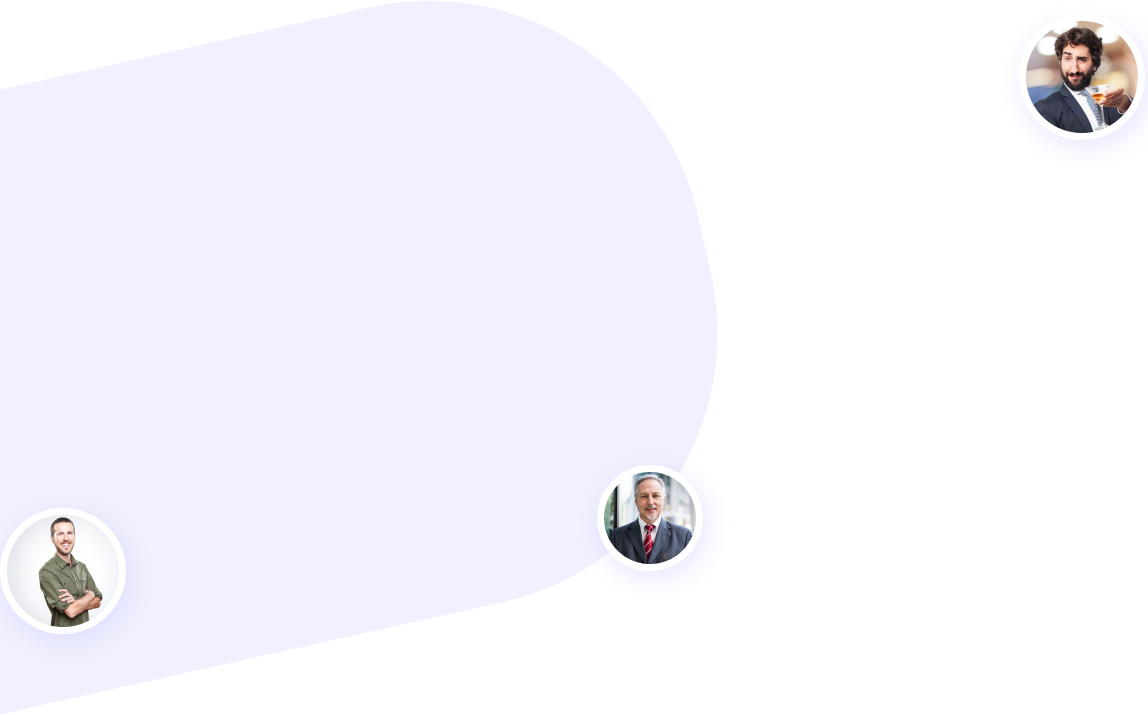
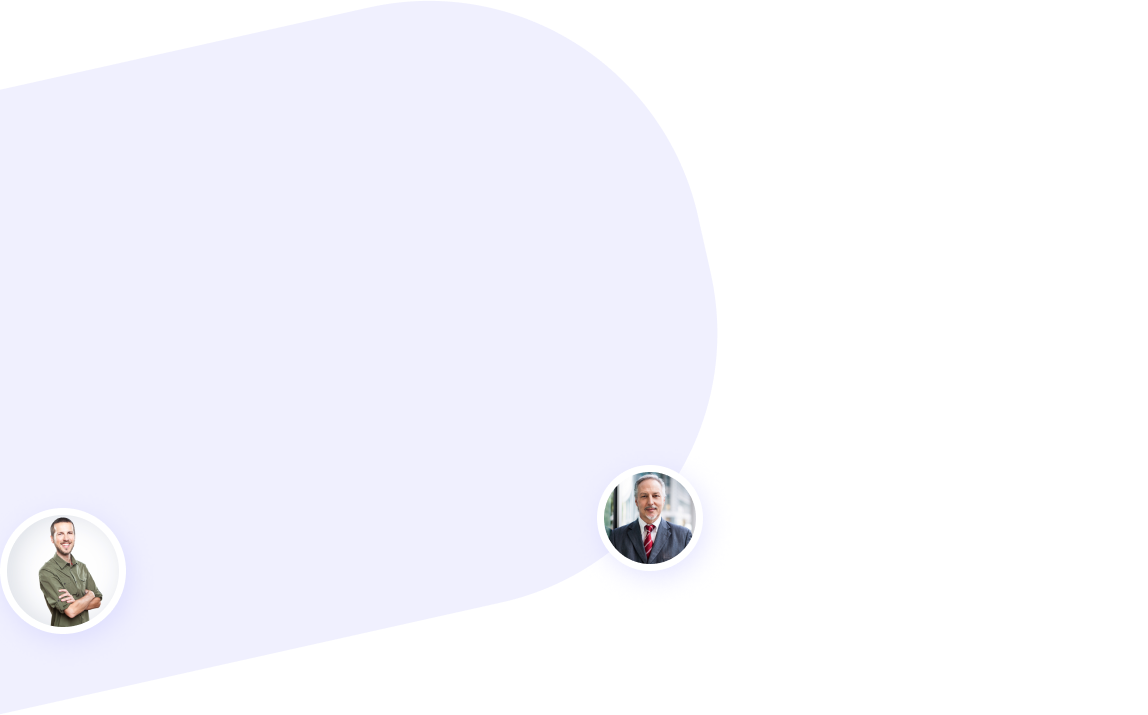
4 jan

Changed region(s): [[0.8841, 0.0308, 1.0, 0.1846]]

diff --git a/src/css/style.min.css b/src/css/style.min.css
@@ -1,1 +1,1 @@
-.header{min-height:671px;background:url(../../img/header.png) center no-repeat}.header nav{display:flex;justify-content:space-between}.header nav .logo{margin-top:33px;font-size:32px;line-height:37px;color:#fff;font-weight:700;text-transform:capitalize;letter-spacing:.05em}.header nav .logo a{text-decoration:none;color:#fff;font-size:32px;line-height:37px;color:#fff;font-weight:700;text-transform:capitalize;letter-spacing:.05em}.header nav .log__button{width:103px;height:34px;border-radius:50px;margin-top:41px;color:#3953fa;background-color:#fff;border:none;box-shadow:0 7px 14px rgba(0,0,0,.2);font-size:18px;line-height:21px;text-align:center;letter-spacing:.05em;text-transform:capitalize;font-weight:500;outline:0}.header .menu{display:flex}.header .menu__list{display:flex}.header .menu__item{font-size:18px;line-height:21px;letter-spacing:.05em;text-transform:capitalize;margin-right:30px;margin-top:47px}.header .menu a{color:#fff}.header .legend__wrapper{width:339px;margin-top:159px}.header .legend__wrapper h1{font-size:42px;line-height:49px;letter-spacing:.05em;text-transform:capitalize;color:#fff;font-weight:500}.header .legend__wrapper .legend__text{margin-top:31px;font-size:18px;line-height:21px;letter-spacing:.05em;text-transform:capitalize;color:#fff;letter-spacing:.05em;font-weight:400}.methods{min-height:776px;background-image:url(../../img/methodsbg.png);background-repeat:no-repeat;background-size:auto;background-position:top 70px left}.methods__wrapper{display:flex;justify-content:space-between}.methods .choose{position:relative;width:410px;height:480px;margin-top:167px;margin-left:55px;background:#fff;box-shadow:5px 5px 30px rgba(98,165,244,.23);border-radius:15px}.methods .choose__method{font-size:23px;line-height:27px;letter-spacing:.05em;text-transform:capitalize;color:#1d1d1d;font-weight:bolder;margin-top:45px;margin-left:45px}.methods .choose__carousel{margin-top:25px;display:block;width:460px;height:160px}.methods .choose__carousel img{border-radius:10px;border:4px solid #fff;box-shadow:0 4px 12px rgba(98,165,244,.26)}.methods .choose__input{margin-top:13px;margin-left:44px;border:1px solid #b7b7b7;border-radius:8px;width:318px;height:44px;outline:0}.methods .choose__branch{margin-left:46px;font-size:16px;line-height:19px;font-weight:500;letter-spacing:.05em;color:#1d1d1d}.methods .choose input::-webkit-calendar-picker-indicator{-webkit-appearance:none;opacity:1;color:rgba(0,0,0,0);background:url(../../icons/arrow.svg) no-repeat;height:6px;width:20px;top:0;z-index:0;position:absolute;right:1px;top:20px}.methods .choose input::-webkit-input-placeholder{font-size:14px;line-height:16px;letter-spacing:.05em;color:#cdcdcd;margin-left:12px}.methods .choose__geo{margin-top:13px;margin-left:44px;font-size:12px;line-height:14px;letter-spacing:.05em;color:#3953fa}.methods .choose__loading{font-size:16px;line-height:19px;letter-spacing:.05em;color:#1d1d1d;font-weight:500;margin-top:26px;margin-left:44px}.methods .choose .loading{display:flex;align-self:center;font-size:12px;line-height:14px;letter-spacing:.05em;color:#3953fa;margin-left:44px;margin-top:18px}.methods .choose .loading input[type=radio]{margin-right:10px}.methods .choose .loading label{margin-right:20px}.methods .choose .order{display:flex;justify-content:space-between;align-items:center;position:absolute;padding:0;width:230px;height:60px;background:#fff;box-shadow:10px 14px 46px rgba(98,165,244,.23);border-radius:10px;border-color:rgba(0,0,0,0);top:375px;left:300px;font-size:16px;line-height:19px;font-weight:700;letter-spacing:.05em;text-transform:capitalize;color:#45de2d}.methods .choose .order span{display:block;margin-top:0;margin-left:16px}.methods .choose .order img{display:block;width:40px;height:40px;margin-right:15px;margin-top:8px}.methods .find{width:410px}.methods .find__divider{margin-top:202px;width:80px;height:0;border-bottom:3px solid #3953fa}.methods .find__lets{margin-top:50px;font-size:32px;line-height:37px;font-weight:500;letter-spacing:.05em;color:#1d1d1d}.methods .find__text{margin-top:30px;font-size:16px;line-height:25px;letter-spacing:.05em;color:#7c7c7c}.methods .find button{width:200px;height:62px;background:#eaf0fe;border-radius:60px;border:none;font-size:18px;line-height:30px;text-align:center;font-weight:500;color:#3953fa;outline:0;margin-top:58px}.methods .slick-prev{position:absolute;top:115px;left:278px;border:none;background:rgba(0,0,0,0);outline:0}.methods .slick-prev img{box-shadow:none}.methods .slick-next{position:absolute;top:115px;left:341px;border:none;background:rgba(0,0,0,0);outline:0;box-shadow:none}.methods .slick-next img{box-shadow:none;transform:rotateY(180deg)}.methods .slick-slide{margin:10px 20px}.methods .slick-list{margin:-10px -20px}.section-3{min-height:794px;background-image:url(../../img/block3bg.png);background-repeat:no-repeat;background-size:auto;background-position:right bottom}.section-3__wrapper{display:flex;justify-content:space-between}.section-3__left{width:410px;margin-left:30px}.section-3 .divider{margin-top:80px;width:80px;height:0;border-bottom:3px solid #3953fa}.section-3 .bedding{margin-top:50px;font-size:32px;line-height:37px;font-weight:500;letter-spacing:.05em;color:#1d1d1d}.section-3 .bedding__text{margin-top:50px;font-size:16px;line-height:25px;letter-spacing:.05em;color:#7c7c7c}.section-3 button{width:200px;height:62px;background:#eaf0fe;border-radius:60px;border:none;font-size:18px;line-height:30px;text-align:center;font-weight:500;color:#3953fa;outline:0;margin-top:58px}.section-3__right{position:relative;width:410px;margin-top:10px}.section-3__right .chooses{margin-top:14px;margin-left:20px;width:322px;font-size:16px;line-height:26px;letter-spacing:.05em;color:#7c7c7c}.section-3__right .chooses:nth-child(2){text-align:right;position:absolute;right:140px;top:186px}.section-3__right .chooses:nth-child(3){margin-top:300px}.section-3__right .chooses span{margin-top:120px;display:block;font-size:18px;line-height:21px;letter-spacing:.05em;color:#1d1d1d;font-weight:500}.video{background:url(../../img/block4bg.png) top left no-repeat;min-height:683px}.video__wrapper{position:relative;display:flex;justify-content:space-between}.video .video__button{margin-top:484px;margin-left:461px;width:90px;height:90px;background:0 0}.video .video__button img{display:block}.video__right{margin-top:100px;width:389px}.video__divider{margin-top:100px;width:80px;height:0;border-bottom:3px solid #3953fa}.video__title{margin-top:50px;font-size:32px;line-height:37px;font-weight:500;letter-spacing:.05em;color:#1d1d1d}.video__text{margin-top:50px;font-size:16px;line-height:25px;letter-spacing:.05em;color:#7c7c7c}.video button{width:200px;height:62px;background:#eaf0fe;border-radius:60px;border:none;font-size:18px;line-height:30px;text-align:center;font-weight:500;color:#3953fa;outline:0;margin-top:58px}.section-5{min-height:794px;background-image:url(../../img/Group_9.png);background-repeat:no-repeat;background-size:auto;background-position:bottom right}.section-5__wrapper{display:flex;justify-content:space-between}.section-5__left{width:410px;margin-left:30px}.section-5 .divider{margin-top:300px;width:80px;height:0;border-bottom:3px solid #3953fa}.section-5 .bedding{margin-top:50px;font-size:32px;line-height:37px;font-weight:500;letter-spacing:.05em;color:#1d1d1d}.section-5 .bedding__text{margin-top:50px;font-size:16px;line-height:25px;letter-spacing:.05em;color:#7c7c7c}.section-5 button{width:200px;height:62px;background:#eaf0fe;border-radius:60px;border:none;font-size:18px;line-height:30px;text-align:center;font-weight:500;color:#3953fa;outline:0;margin-top:58px}.section-5__right .awsome__mail{margin-top:438px;margin-right:290px;font-size:16px;line-height:25px;letter-spacing:.05em;color:#7c7c7c}.section-5__right .statisics{display:flex;justify-content:space-between;align-items:center;width:260px;margin-top:20px}.section-5__right .statisics__label{margin-top:17px;font-size:14px;line-height:22px;letter-spacing:.05em;color:#fff;text-align:center}.section-5__right .statisics__value{font-size:14px;line-height:22px;letter-spacing:.05em;color:#fff;font-weight:700;text-align:center}.section-6{min-height:861px;background-image:url(../../img/Group10.png);background-repeat:no-repeat;background-size:auto;background-position:left bottom}.section-6__wrapper{display:flex;justify-content:space-between}.section-6__carousel{display:block;width:455px;height:455px}.section-6__carousel .block{margin-top:250px;width:452px;height:335px;background:#fff;border-radius:10px}.section-6__carousel .block__avatar{position:relative}.section-6__carousel .block__avatar img{position:absolute;top:-56px;left:170px;display:block;width:126px;height:126px;border:7px solid #fff;border-radius:100%;filter:drop-shadow(4px 7px 29px rgba(198, 198, 255, .43))}.section-6__carousel .block__name{padding-top:76px;font-family:Damion,cursive;font-size:26px;line-height:48px;text-align:center;letter-spacing:.05em;color:#7c7c7c}.section-6__carousel .block__city{font-size:14px;line-height:22px;text-align:center;letter-spacing:.05em;color:#7c7c7c;margin-bottom:13px}.section-6__carousel .block__text{margin:0 auto;width:356px;font-size:16px;line-height:25px;text-align:center;letter-spacing:.05em;color:#7c7c7c}.section-6__right .bedding{margin-left:180px;margin-top:347px;width:280px;font-size:32px;line-height:37px;font-weight:500;letter-spacing:.05em;color:#1d1d1d}.section-6__right .bedding__text{margin-top:30px;margin-left:180px;width:370px;font-size:16px;line-height:25px;letter-spacing:.05em;color:#7c7c7c}.section-6 .slick-dots{display:flex;justify-content:center;align-items:center;list-style-type:none}.section-6 .slick-dots li button{font-size:0;line-height:0;display:block;width:12px;margin:31px 8px;height:12px;cursor:pointer;color:transparent;border:0;outline:0;background:url(../../icons/Ellipse.png) no-repeat 0 0/cover}.section-6 .slick-dots li.slick-active button{font-size:0;line-height:0;display:block;width:16px;margin:29px 8px;height:16px;cursor:pointer;color:transparent;border:0;outline:0;background:url(../../icons/Ellipse_active.png) no-repeat 0 0/cover}.footer{min-height:645px;background-image:url(../../img/footer__bg.png);background-repeat:no-repeat;background-size:auto}.footer__wrapper{display:flex}.footer .connect{width:100%;display:flex;justify-content:space-between;margin-top:175px}.footer .connect .social{display:flex;justify-content:space-between}.footer .connect .social__item{display:flex;justify-content:center;align-items:center;width:35px;height:35px;background-color:#fff;border-radius:100%;margin-bottom:5px}.footer .connect .social__item img{display:block;margin-bottom:3px}.footer .connect .social{width:147px}.footer .connect .mail{margin-left:98px}.footer .connect .mail a{font-size:16px;line-height:25px;letter-spacing:.05em;color:rgba(255,255,255,.75)}.footer .connect .mail img{margin-right:17px}.footer .connect .phone a{font-size:16px;line-height:25px;letter-spacing:.05em;color:rgba(255,255,255,.75)}.footer .connect .phone img{margin-right:22px}.footer .divider{margin-top:43px;display:block;width:1032px;height:0;border-bottom:1px solid rgba(255,255,255,.21)}.footer__bottom{display:flex}.footer .subheader{margin-top:70px;font-size:20px;line-height:31px;letter-spacing:.05em;color:#fff;font-weight:500}.footer .text{font-size:14px;line-height:22px;letter-spacing:.05em;color:#fff}.footer input[type=text]{margin-top:14px;width:300px;height:50px;background:#fff;box-shadow:0 11px 22px #0057be;border-radius:65px;outline:0;border:none}.footer input::-moz-placeholder{color:#e1e1e1;font-weight:500}.footer input:-ms-input-placeholder{color:#e1e1e1;font-weight:500}.footer input::placeholder{color:#e1e1e1;font-weight:500}.footer__bottom__item{position:relative}.footer__bottom__item__divider{width:100px;height:0;border-bottom:2px solid #fff}.footer__bottom__item ul{margin-top:21px;list-style-type:none;padding-left:0}.footer__bottom__item li{margin-top:5px}.footer__bottom__item a{text-decoration:none;font-size:14px;line-height:17px;font-weight:medium;letter-spacing:.05em;color:rgba(255,255,255,.6)}.footer__bottom__item:first-child{width:360px;margin-left:80px}.footer__bottom__item .text{margin-top:31px}.footer__bottom__item:nth-child(2){margin-left:95px}.footer__bottom__item:nth-child(3){margin-left:91px}.footer__bottom__item:nth-child(4){margin-left:91px}.footer__bottom__item button{position:absolute;top:213px;left:245px;width:50px;height:50px;background-color:rgba(0,0,0,0);border-radius:100%;border:none;outline:0}.footer .footer__bottom__divider{margin-top:13px;height:0;border-bottom:2px solid #fff;width:58px}.footer .footer__bottom__divider__services{margin-top:13px;height:0;border-bottom:2px solid #fff;width:86px}.footer .footer__bottom__divider__faq{margin-top:13px;height:0;border-bottom:2px solid #fff;width:46px}*{font-family:"Avenir Next Cyr",sans-serif}body{background-color:#c9c5c5}.page__wrapper{background-color:#fff;max-width:1240px;margin:0 auto}.container{max-width:1030px;margin:0 auto}
+.header{min-height:671px;background:url(../../img/header.png) center no-repeat}.header nav{display:flex;justify-content:space-between}.header nav .logo{margin-top:33px;font-size:32px;line-height:37px;color:#fff;font-weight:700;text-transform:capitalize;letter-spacing:.05em}.header nav .logo a{text-decoration:none;color:#fff;font-size:32px;line-height:37px;color:#fff;font-weight:700;text-transform:capitalize;letter-spacing:.05em}.header nav .log__button{width:103px;height:34px;border-radius:50px;margin-top:41px;color:#3953fa;background-color:#fff;border:none;box-shadow:0 7px 14px rgba(0,0,0,.2);font-size:18px;line-height:21px;text-align:center;letter-spacing:.05em;text-transform:capitalize;font-weight:500;outline:0}.header .menu{display:flex}.header .menu__list{display:flex}.header .menu__item{font-size:18px;line-height:21px;letter-spacing:.05em;text-transform:capitalize;margin-right:30px;margin-top:47px}.header .menu a{color:#fff}.header .legend__wrapper{width:339px;margin-top:159px}.header .legend__wrapper h1{font-size:42px;line-height:49px;letter-spacing:.05em;text-transform:capitalize;color:#fff;font-weight:500}.header .legend__wrapper .legend__text{margin-top:31px;font-size:18px;line-height:21px;letter-spacing:.05em;text-transform:capitalize;color:#fff;letter-spacing:.05em;font-weight:400}.methods{min-height:776px;background-image:url(../../img/methodsbg.png);background-repeat:no-repeat;background-size:auto;background-position:top 70px left}.methods__wrapper{display:flex;justify-content:space-between}.methods .choose{position:relative;width:410px;height:480px;margin-top:167px;margin-left:55px;background:#fff;box-shadow:5px 5px 30px rgba(98,165,244,.23);border-radius:15px}.methods .choose__method{font-size:23px;line-height:27px;letter-spacing:.05em;text-transform:capitalize;color:#1d1d1d;font-weight:bolder;margin-top:45px;margin-left:45px}.methods .choose__carousel{margin-top:25px;display:block;width:460px;height:160px}.methods .choose__carousel img{border-radius:10px;border:4px solid #fff;box-shadow:0 4px 12px rgba(98,165,244,.26)}.methods .choose__input{margin-top:13px;margin-left:44px;border:1px solid #b7b7b7;border-radius:8px;width:318px;height:44px;outline:0}.methods .choose__branch{margin-left:46px;font-size:16px;line-height:19px;font-weight:500;letter-spacing:.05em;color:#1d1d1d}.methods .choose input::-webkit-calendar-picker-indicator{-webkit-appearance:none;opacity:1;color:rgba(0,0,0,0);background:url(../../icons/arrow.svg) no-repeat;height:6px;width:20px;top:0;z-index:0;position:absolute;right:1px;top:20px}.methods .choose input::-webkit-input-placeholder{font-size:14px;line-height:16px;letter-spacing:.05em;color:#cdcdcd;margin-left:12px}.methods .choose__geo{margin-top:13px;margin-left:44px;font-size:12px;line-height:14px;letter-spacing:.05em;color:#3953fa}.methods .choose__loading{font-size:16px;line-height:19px;letter-spacing:.05em;color:#1d1d1d;font-weight:500;margin-top:26px;margin-left:44px}.methods .choose .loading{display:flex;align-self:center;font-size:12px;line-height:14px;letter-spacing:.05em;color:#3953fa;margin-left:44px;margin-top:18px}.methods .choose .loading input[type=radio]{margin-right:10px}.methods .choose .loading label{margin-right:20px}.methods .choose .order{display:flex;justify-content:space-between;align-items:center;position:absolute;padding:0;width:230px;height:60px;background:#fff;box-shadow:10px 14px 46px rgba(98,165,244,.23);border-radius:10px;border-color:rgba(0,0,0,0);top:375px;left:300px;font-size:16px;line-height:19px;font-weight:700;letter-spacing:.05em;text-transform:capitalize;color:#45de2d}.methods .choose .order span{display:block;margin-top:0;margin-left:16px}.methods .choose .order img{display:block;width:40px;height:40px;margin-right:15px;margin-top:8px}.methods .find{width:410px}.methods .find__divider{margin-top:202px;width:80px;height:0;border-bottom:3px solid #3953fa}.methods .find__lets{margin-top:50px;font-size:32px;line-height:37px;font-weight:500;letter-spacing:.05em;color:#1d1d1d}.methods .find__text{margin-top:30px;font-size:16px;line-height:25px;letter-spacing:.05em;color:#7c7c7c}.methods .find button{width:200px;height:62px;background:#eaf0fe;border-radius:60px;border:none;font-size:18px;line-height:30px;text-align:center;font-weight:500;color:#3953fa;outline:0;margin-top:58px}.methods .slick-prev{position:absolute;top:115px;left:278px;border:none;background:rgba(0,0,0,0);outline:0}.methods .slick-prev img{box-shadow:none}.methods .slick-next{position:absolute;top:115px;left:341px;border:none;background:rgba(0,0,0,0);outline:0;box-shadow:none}.methods .slick-next img{box-shadow:none;transform:rotateY(180deg)}.methods .slick-slide{margin:10px 20px}.methods .slick-list{margin:-10px -20px}.section-3{min-height:794px;background-image:url(../../img/block3bg.png);background-repeat:no-repeat;background-size:auto;background-position:right bottom}.section-3__wrapper{display:flex;justify-content:space-between}.section-3__left{width:410px;margin-left:30px}.section-3 .divider{margin-top:80px;width:80px;height:0;border-bottom:3px solid #3953fa}.section-3 .bedding{margin-top:50px;font-size:32px;line-height:37px;font-weight:500;letter-spacing:.05em;color:#1d1d1d}.section-3 .bedding__text{margin-top:50px;font-size:16px;line-height:25px;letter-spacing:.05em;color:#7c7c7c}.section-3 button{width:200px;height:62px;background:#eaf0fe;border-radius:60px;border:none;font-size:18px;line-height:30px;text-align:center;font-weight:500;color:#3953fa;outline:0;margin-top:58px}.section-3__right{position:relative;width:410px;margin-top:10px}.section-3__right .chooses{margin-top:14px;margin-left:20px;width:322px;font-size:16px;line-height:26px;letter-spacing:.05em;color:#7c7c7c}.section-3__right .chooses:nth-child(2){text-align:right;position:absolute;right:140px;top:186px}.section-3__right .chooses:nth-child(3){margin-top:300px}.section-3__right .chooses span{margin-top:120px;display:block;font-size:18px;line-height:21px;letter-spacing:.05em;color:#1d1d1d;font-weight:500}.video{background:url(../../img/block4bg.png) top left no-repeat;min-height:683px}.video__wrapper{position:relative;display:flex;justify-content:space-between}.video .video__button{margin-top:484px;margin-left:461px;width:90px;height:90px;background:0 0}.video .video__button img{display:block}.video__right{margin-top:100px;width:389px}.video__divider{margin-top:100px;width:80px;height:0;border-bottom:3px solid #3953fa}.video__title{margin-top:50px;font-size:32px;line-height:37px;font-weight:500;letter-spacing:.05em;color:#1d1d1d}.video__text{margin-top:50px;font-size:16px;line-height:25px;letter-spacing:.05em;color:#7c7c7c}.video button{width:200px;height:62px;background:#eaf0fe;border-radius:60px;border:none;font-size:18px;line-height:30px;text-align:center;font-weight:500;color:#3953fa;outline:0;margin-top:58px}.section-5{min-height:794px;background-image:url(../../img/Group_9.png);background-repeat:no-repeat;background-size:auto;background-position:bottom right}.section-5__wrapper{display:flex;justify-content:space-between}.section-5__left{width:410px;margin-left:30px}.section-5 .divider{margin-top:300px;width:80px;height:0;border-bottom:3px solid #3953fa}.section-5 .bedding{margin-top:50px;font-size:32px;line-height:37px;font-weight:500;letter-spacing:.05em;color:#1d1d1d}.section-5 .bedding__text{margin-top:50px;font-size:16px;line-height:25px;letter-spacing:.05em;color:#7c7c7c}.section-5 button{width:200px;height:62px;background:#eaf0fe;border-radius:60px;border:none;font-size:18px;line-height:30px;text-align:center;font-weight:500;color:#3953fa;outline:0;margin-top:58px}.section-5__right .awsome__mail{margin-top:438px;margin-right:290px;font-size:16px;line-height:25px;letter-spacing:.05em;color:#7c7c7c}.section-5__right .statisics{display:flex;justify-content:space-between;align-items:center;width:260px;margin-top:20px}.section-5__right .statisics__label{margin-top:17px;font-size:14px;line-height:22px;letter-spacing:.05em;color:#fff;text-align:center}.section-5__right .statisics__value{font-size:14px;line-height:22px;letter-spacing:.05em;color:#fff;font-weight:700;text-align:center}.section-6{min-height:861px;background-image:url(../../img/Group10.png);background-repeat:no-repeat;background-size:auto;background-position:left bottom}.section-6__wrapper{display:flex;justify-content:space-between}.section-6__carousel{display:block;width:455px;height:455px}.section-6__carousel .block{margin-top:250px;width:452px;height:335px;background:#fff;border-radius:10px}.section-6__carousel .block__avatar{position:relative}.section-6__carousel .block__avatar img{position:absolute;top:-56px;left:170px;display:block;width:126px;height:126px;border:7px solid #fff;border-radius:100%;filter:drop-shadow(4px 7px 29px rgba(198, 198, 255, .43))}.section-6__carousel .block__name{padding-top:76px;font-family:Damion,cursive;font-size:26px;line-height:48px;text-align:center;letter-spacing:.05em;color:#7c7c7c}.section-6__carousel .block__city{font-size:14px;line-height:22px;text-align:center;letter-spacing:.05em;color:#7c7c7c;margin-bottom:13px}.section-6__carousel .block__text{margin:0 auto;width:356px;font-size:16px;line-height:25px;text-align:center;letter-spacing:.05em;color:#7c7c7c}.section-6__right{position:relative}.section-6__right .manimg{position:absolute;top:167px;right:-9px;display:block;width:126px;height:126px;border:7px solid #fff;border-radius:100%;filter:drop-shadow(4px 7px 29px rgba(198, 198, 255, .43))}.section-6__right .bedding{margin-left:180px;margin-top:347px;width:280px;font-size:32px;line-height:37px;font-weight:500;letter-spacing:.05em;color:#1d1d1d}.section-6__right .bedding__text{margin-top:30px;margin-left:180px;width:370px;font-size:16px;line-height:25px;letter-spacing:.05em;color:#7c7c7c}.section-6 .slick-dots{display:flex;justify-content:center;align-items:center;list-style-type:none}.section-6 .slick-dots li button{font-size:0;line-height:0;display:block;width:12px;margin:31px 8px;height:12px;cursor:pointer;color:transparent;border:0;outline:0;background:url(../../icons/Ellipse.png) no-repeat 0 0/cover}.section-6 .slick-dots li.slick-active button{font-size:0;line-height:0;display:block;width:16px;margin:29px 8px;height:16px;cursor:pointer;color:transparent;border:0;outline:0;background:url(../../icons/Ellipse_active.png) no-repeat 0 0/cover}.footer{min-height:645px;background-image:url(../../img/footer__bg.png);background-repeat:no-repeat;background-size:auto}.footer__wrapper{display:flex}.footer .connect{width:100%;display:flex;justify-content:space-between;margin-top:175px}.footer .connect .social{display:flex;justify-content:space-between}.footer .connect .social__item{display:flex;justify-content:center;align-items:center;width:35px;height:35px;background-color:#fff;border-radius:100%;margin-bottom:5px}.footer .connect .social__item img{display:block;margin-bottom:3px}.footer .connect .social{width:147px}.footer .connect .mail{margin-left:98px}.footer .connect .mail a{font-size:16px;line-height:25px;letter-spacing:.05em;color:rgba(255,255,255,.75)}.footer .connect .mail img{margin-right:17px}.footer .connect .phone a{font-size:16px;line-height:25px;letter-spacing:.05em;color:rgba(255,255,255,.75)}.footer .connect .phone img{margin-right:22px}.footer .divider{margin-top:43px;display:block;width:1032px;height:0;border-bottom:1px solid rgba(255,255,255,.21)}.footer__bottom{display:flex}.footer .subheader{margin-top:70px;font-size:20px;line-height:31px;letter-spacing:.05em;color:#fff;font-weight:500}.footer .text{font-size:14px;line-height:22px;letter-spacing:.05em;color:#fff}.footer input[type=text]{margin-top:14px;width:300px;height:50px;background:#fff;box-shadow:0 11px 22px #0057be;border-radius:65px;outline:0;border:none}.footer input::-moz-placeholder{color:#e1e1e1;font-weight:500}.footer input:-ms-input-placeholder{color:#e1e1e1;font-weight:500}.footer input::placeholder{color:#e1e1e1;font-weight:500}.footer__bottom__item{position:relative}.footer__bottom__item__divider{width:100px;height:0;border-bottom:2px solid #fff}.footer__bottom__item ul{margin-top:21px;list-style-type:none;padding-left:0}.footer__bottom__item li{margin-top:5px}.footer__bottom__item a{text-decoration:none;font-size:14px;line-height:17px;font-weight:medium;letter-spacing:.05em;color:rgba(255,255,255,.6)}.footer__bottom__item:first-child{width:360px;margin-left:80px}.footer__bottom__item .text{margin-top:31px}.footer__bottom__item:nth-child(2){margin-left:95px}.footer__bottom__item:nth-child(3){margin-left:91px}.footer__bottom__item:nth-child(4){margin-left:91px}.footer__bottom__item button{position:absolute;top:213px;left:245px;width:50px;height:50px;background-color:rgba(0,0,0,0);border-radius:100%;border:none;outline:0}.footer .footer__bottom__divider{margin-top:13px;height:0;border-bottom:2px solid #fff;width:58px}.footer .footer__bottom__divider__services{margin-top:13px;height:0;border-bottom:2px solid #fff;width:86px}.footer .footer__bottom__divider__faq{margin-top:13px;height:0;border-bottom:2px solid #fff;width:46px}*{font-family:"Avenir Next Cyr",sans-serif}body{background-color:#c9c5c5}.page__wrapper{background-color:#fff;max-width:1240px;margin:0 auto}.container{max-width:1030px;margin:0 auto}

diff --git a/src/sass/blocks/_section-6.scss b/src/sass/blocks/_section-6.scss
@@ -6,6 +6,7 @@
     background-position: left bottom;
 
     &__wrapper{
+       
         display: flex;
         justify-content: space-between;
     }
@@ -69,7 +70,20 @@ color: #7C7C7C;
         }
     }
      &__right{
-       
+        position: relative;
+        .manimg{
+            position: absolute;
+            top:167px;
+            right: -9px;
+            display: block;
+            width: 126px;
+            height: 126px;
+            border: 7px solid #FFFFFF;
+            border-radius: 100%;
+            filter: drop-shadow(4px 7px 29px rgba(198, 198, 255, 0.43));
+            
+        }
+
         .bedding{
             margin-left: 180px;
             margin-top: 347px;

diff --git a/src/index.html b/src/index.html
@@ -174,7 +174,9 @@
                     
                 </div>
                 </div></div>
-                <div class="section-6__right"><div class="bedding">The bedding  was hardly able</div>
+                <div class="section-6__right">
+                    <img src="img/man.png" alt="" class="manimg">
+                    <div class="bedding">The bedding  was hardly able</div>
                 <div class="bedding__text">One morning, when Gregor Samsa woke from troubled dreams, he found himself </div></div>
             </div>
         </div>
